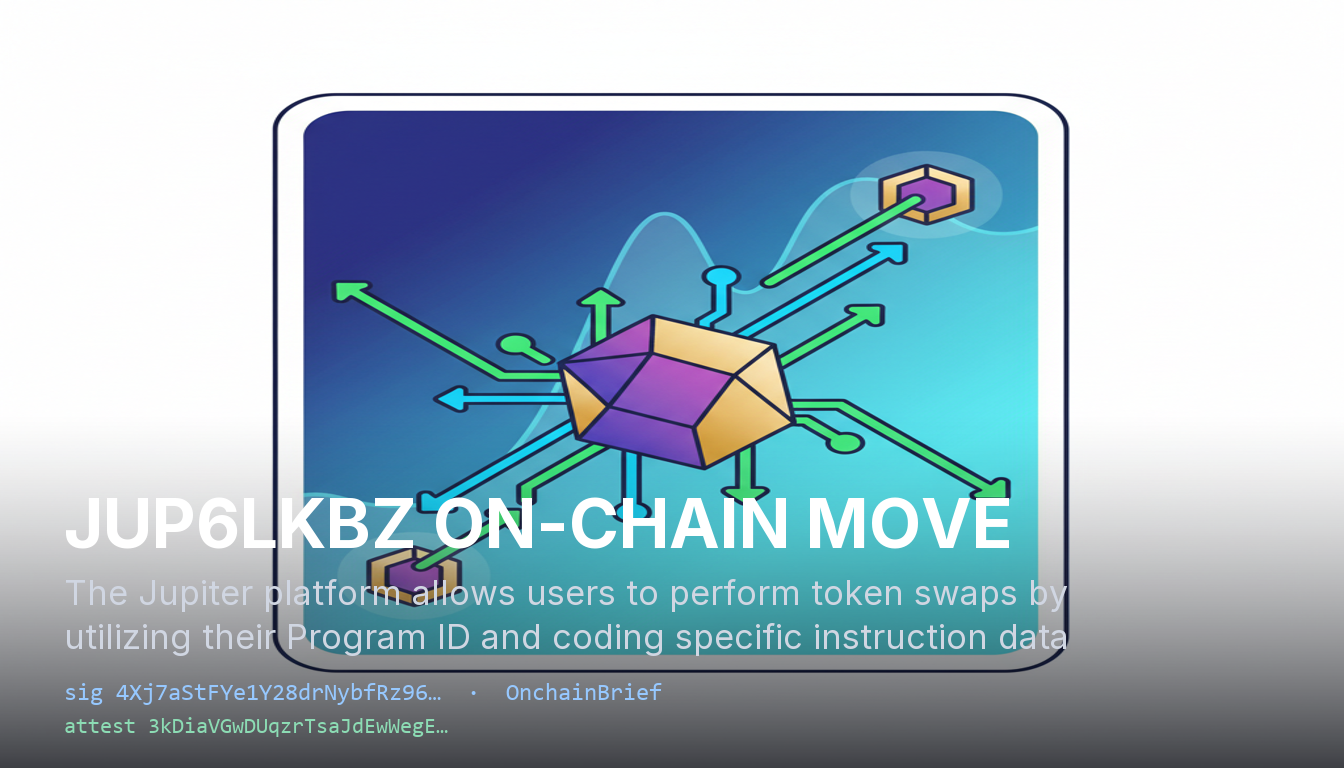
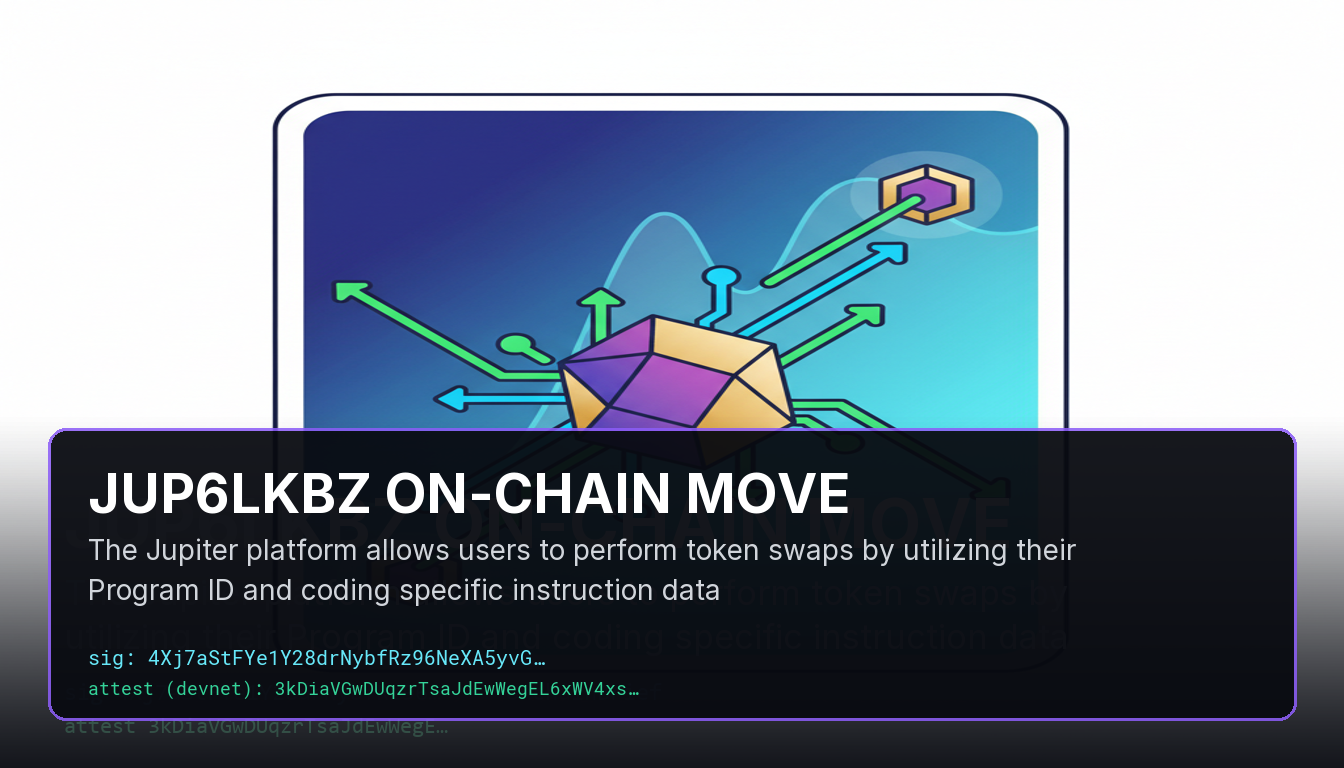
style: implement dark glassmorphic neon-bordered card overlay, recomposite existing PNG cards, update visual prompt

diff --git a/site/index.html b/site/index.html
@@ -1,4 +1,4 @@
-<!doctype html><html lang=en><head><meta charset=utf-8><meta name=viewport content='width=device-width,initial-scale=1'><title>OnchainBrief — Verified Solana Intelligence</title><style>@import url('https://fonts.googleapis.com/css2?family=Inter:wght@300;400;500;600;700&display=swap');:root{--bg:#030712;--card-bg:rgba(17,24,39,0.7);--border:rgba(255,255,255,0.08);--border-hover:rgba(255,255,255,0.16);--text:#f3f4f6;--text-muted:#9ca3af;--primary:#8b5cf6;--primary-glow:rgba(139,92,246,0.15);--success:#10b981;--success-glow:rgba(16,185,129,0.15);--accent:#06b6d4}body{background-color:var(--bg);background-image:radial-gradient(at 0% 0%,rgba(139,92,246,0.08) 0px,transparent 50%),radial-gradient(at 100% 100%,rgba(6,182,212,0.05) 0px,transparent 50%);color:var(--text);font-family:'Inter',system-ui,-apple-system,sans-serif;margin:0;padding:0;min-height:100vh;display:flex;flex-direction:column}.container{max-width:1200px;margin:0 auto;padding:60px 24px;flex-grow:1}header{text-align:center;margin-bottom:60px}.logo{display:inline-flex;align-items:center;gap:12px;margin-bottom:16px}.logo-icon{font-size:32px;background:linear-gradient(135deg,var(--primary),var(--accent));-webkit-background-clip:text;-webkit-text-fill-color:transparent;filter:drop-shadow(0 2px 8px var(--primary-glow))}h1{font-size:38px;font-weight:700;margin:0;background:linear-gradient(to right,#ffffff,#d1d5db);-webkit-background-clip:text;-webkit-text-fill-color:transparent;letter-spacing:-0.02em}.subtitle{color:var(--text-muted);font-size:16px;margin-top:12px;max-width:600px;margin-left:auto;margin-right:auto;font-weight:300;line-height:1.6}.grid{display:grid;grid-template-columns:repeat(auto-fill,minmax(360px,1fr));gap:32px}article{background:var(--card-bg);backdrop-filter:blur(12px);-webkit-backdrop-filter:blur(12px);border:1px solid var(--border);border-radius:20px;padding:24px;display:flex;flex-direction:column;transition:all 0.3s cubic-bezier(0.4,0,0.2,1);position:relative;overflow:hidden}article:hover{transform:translateY(-4px);border-color:var(--border-hover);box-shadow:0 12px 30px rgba(0,0,0,0.5),0 0 2px var(--primary)}.img-wrapper{width:100%;border-radius:12px;overflow:hidden;aspect-ratio:1.58;background:#1f2937;margin-bottom:20px;border:1px solid rgba(255,255,255,0.05)}article img{width:100%;height:100%;object-fit:cover;transition:transform 0.5s ease}article:hover img{transform:scale(1.03)}h2{font-size:20px;font-weight:600;margin:0 0 12px 0;color:#ffffff;line-height:1.4}.narrative{color:var(--text-muted);font-size:14px;line-height:1.6;margin:0 0 20px 0;flex-grow:1}.section-title{font-size:11px;text-transform:uppercase;letter-spacing:0.05em;color:var(--text-muted);margin-bottom:8px;font-weight:600}.badges-container{margin-bottom:18px}.sources-list{display:flex;flex-wrap:wrap;gap:8px}.source-badge{display:inline-flex;align-items:center;background:rgba(255,255,255,0.04);border:1px solid rgba(255,255,255,0.06);color:var(--text-muted);padding:4px 10px;border-radius:6px;font-size:11px;text-decoration:none;transition:all 0.2s ease}.source-badge:hover{background:rgba(255,255,255,0.08);color:#ffffff;border-color:rgba(255,255,255,0.12)}.proofs{display:flex;flex-direction:column;gap:8px;border-top:1px solid rgba(255,255,255,0.06);padding-top:16px;margin-top:auto}.proof-badge{display:flex;align-items:center;justify-content:space-between;padding:8px 12px;border-radius:8px;font-size:12px;text-decoration:none;transition:all 0.2s ease;font-family:monospace}.proof-badge.onchain{background:var(--primary-glow);border:1px solid rgba(139,92,246,0.2);color:#c084fc}.proof-badge.onchain:hover{background:rgba(139,92,246,0.25);border-color:rgba(139,92,246,0.4)}.proof-badge.attest{background:var(--success-glow);border:1px solid rgba(16,185,129,0.2);color:#34d399}.proof-badge.attest:hover{background:rgba(16,185,129,0.25);border-color:rgba(16,185,129,0.4)}.badge-label{font-family:'Inter',sans-serif;font-weight:500;font-size:11px}footer{text-align:center;padding:40px 24px;color:var(--text-muted);font-size:13px;border-top:1px solid var(--border);background:rgba(10,15,26,0.5);backdrop-filter:blur(8px);margin-top:80px}footer a{color:var(--primary);text-decoration:none;transition:color 0.2s ease}footer a:hover{color:var(--accent)}@media (max-width:640px){.container{padding:40px 16px}.grid{grid-template-columns:1fr}h1{font-size:30px}}</style></head><body><div class=container><header><div class=logo><span class=logo-icon>⚡</span></div><h1>OnchainBrief</h1><p class=subtitle>Curated Solana network security & program intelligence, verified on-chain and registered via SAP.</p></header><main class=grid><article><div class="img-wrapper"><img src="5U6RG9bkwJBRMRL7.png" alt="JUP6LkbZ on-chain move"></div><h2>JUP6LkbZ on-chain move</h2><p class="narrative">Developers can utilize Jupiter&#x27;s Program ID for implementing swaps directly in their applications on the Solana blockchain, integrating with its comprehensive programming model. A library is available that provides tools for parsing and inspecting Solana transactions, enhancing the development process. This tutorial series also emphasizes building Solana programs using the Anchor framework, which facilitates coding in native Solana instructions.</p><div class="badges-container"><div class="section-title">Sources</div><div class="sources-list"><a class="source-badge" href="https://solana.stackexchange.com/questions/18946/how-to-call-the-shared-accounts-route-instruction-on-jupiter" target="_blank" rel="noopener noreferrer">solana.stackexchange.com</a><a class="source-badge" href="https://blog.syndica.io/an-introduction-to-the-solana-programming-model-accounts-data-and-transactions/" target="_blank" rel="noopener noreferrer">blog.syndica.io</a><a class="source-badge" href="https://github.com/tkhq/solana-parser" target="_blank" rel="noopener noreferrer">github.com</a><a class="source-badge" href="https://rareskills.io/post/solana-program-entry-and-execution" target="_blank" rel="noopener noreferrer">rareskills.io</a><a class="source-badge" href="https://explorer.solana.com/tx/URX3GWaqFHtTrwShDyF5Krn2BdEkJHLv3hR9ATpZdLLHg8zZUmeZdwDJ5MoFb4KYqzZQ9bfEqbMpPPbj66vfhbH" target="_blank" rel="noopener noreferrer">explorer.solana.com</a></div></div><div class="proofs"><a class="proof-badge onchain" href="https://solscan.io/tx/5U6RG9bkwJBRMRL7hjKADCh5Xz65DQrd9BhTH9jM1iBcZtxophaYYJDkuV3Z3ow5H92efZPEpaavDB8JJWradivt" target="_blank" rel="noopener noreferrer"><span class="badge-label">🔗 On-Chain Proof</span><span>5U6RG9bk…JWradivt</span></a><a class="proof-badge attest" href="https://solscan.io/tx/3J95YzMSiR43mN1o7dmfCyUmBPbjfeWxHRJPG7wxPa8uTZJtZZ5WyYdPqipGf9tikkT1w99NAigDzDsQAFFgtnVw?cluster=devnet" target="_blank" rel="noopener noreferrer"><span class="badge-label">✓ SAP Attestation (devnet)</span><span>3J95YzMS…AFFgtnVw</span></a></div></article>
+<!doctype html><html lang=en><head><meta charset=utf-8><meta name=viewport content='width=device-width,initial-scale=1'><title>OnchainBrief — Verified Solana Intelligence</title><style>@import url('https://fonts.googleapis.com/css2?family=Inter:wght@300;400;500;600;700&display=swap');:root{--bg:#030712;--card-bg:rgba(17,24,39,0.7);--border:rgba(255,255,255,0.08);--border-hover:rgba(255,255,255,0.16);--text:#f3f4f6;--text-muted:#9ca3af;--primary:#8b5cf6;--primary-glow:rgba(139,92,246,0.15);--success:#10b981;--success-glow:rgba(16,185,129,0.15);--accent:#06b6d4}body{background-color:var(--bg);background-image:radial-gradient(at 0% 0%,rgba(139,92,246,0.08) 0px,transparent 50%),radial-gradient(at 100% 100%,rgba(6,182,212,0.05) 0px,transparent 50%);color:var(--text);font-family:'Inter',system-ui,-apple-system,sans-serif;margin:0;padding:0;min-height:100vh;display:flex;flex-direction:column}.container{max-width:1200px;margin:0 auto;padding:60px 24px;flex-grow:1}header{text-align:center;margin-bottom:60px}.logo{display:inline-flex;align-items:center;gap:12px;margin-bottom:16px}.logo-icon{font-size:32px;background:linear-gradient(135deg,var(--primary),var(--accent));-webkit-background-clip:text;-webkit-text-fill-color:transparent;filter:drop-shadow(0 2px 8px var(--primary-glow))}h1{font-size:38px;font-weight:700;margin:0;background:linear-gradient(to right,#ffffff,#d1d5db);-webkit-background-clip:text;-webkit-text-fill-color:transparent;letter-spacing:-0.02em}.subtitle{color:var(--text-muted);font-size:16px;margin-top:12px;max-width:600px;margin-left:auto;margin-right:auto;font-weight:300;line-height:1.6}.grid{display:grid;grid-template-columns:repeat(auto-fill,minmax(360px,1fr));gap:32px}article{background:var(--card-bg);backdrop-filter:blur(12px);-webkit-backdrop-filter:blur(12px);border:1px solid var(--border);border-radius:20px;padding:24px;display:flex;flex-direction:column;transition:all 0.3s cubic-bezier(0.4,0,0.2,1);position:relative;overflow:hidden}article:hover{transform:translateY(-4px);border-color:var(--border-hover);box-shadow:0 12px 30px rgba(0,0,0,0.5),0 0 2px var(--primary)}.img-wrapper{width:100%;border-radius:12px;overflow:hidden;aspect-ratio:1.58;background:#1f2937;margin-bottom:20px;border:1px solid rgba(255,255,255,0.05)}article img{width:100%;height:100%;object-fit:cover;transition:transform 0.5s ease}article:hover img{transform:scale(1.03)}h2{font-size:20px;font-weight:600;margin:0 0 12px 0;color:#ffffff;line-height:1.4}.narrative{color:var(--text-muted);font-size:14px;line-height:1.6;margin:0 0 20px 0;flex-grow:1}.section-title{font-size:11px;text-transform:uppercase;letter-spacing:0.05em;color:var(--text-muted);margin-bottom:8px;font-weight:600}.badges-container{margin-bottom:18px}.sources-list{display:flex;flex-wrap:wrap;gap:8px}.source-badge{display:inline-flex;align-items:center;background:rgba(255,255,255,0.04);border:1px solid rgba(255,255,255,0.06);color:var(--text-muted);padding:4px 10px;border-radius:6px;font-size:11px;text-decoration:none;transition:all 0.2s ease}.source-badge:hover{background:rgba(255,255,255,0.08);color:#ffffff;border-color:rgba(255,255,255,0.12)}.proofs{display:flex;flex-direction:column;gap:8px;border-top:1px solid rgba(255,255,255,0.06);padding-top:16px;margin-top:auto}.proof-badge{display:flex;align-items:center;justify-content:space-between;padding:8px 12px;border-radius:8px;font-size:12px;text-decoration:none;transition:all 0.2s ease;font-family:monospace}.proof-badge.onchain{background:var(--primary-glow);border:1px solid rgba(139,92,246,0.2);color:#c084fc}.proof-badge.onchain:hover{background:rgba(139,92,246,0.25);border-color:rgba(139,92,246,0.4)}.proof-badge.attest{background:var(--success-glow);border:1px solid rgba(16,185,129,0.2);color:#34d399}.proof-badge.attest:hover{background:rgba(16,185,129,0.25);border-color:rgba(16,185,129,0.4)}.badge-label{font-family:'Inter',sans-serif;font-weight:500;font-size:11px}footer{text-align:center;padding:40px 24px;color:var(--text-muted);font-size:13px;border-top:1px solid var(--border);background:rgba(10,15,26,0.5);backdrop-filter:blur(8px);margin-top:80px}footer a{color:var(--primary);text-decoration:none;transition:color 0.2s ease}footer a:hover{color:var(--accent)}@media (max-width:640px){.container{padding:40px 16px}.grid{grid-template-columns:1fr}h1{font-size:30px}}</style></head><body><div class=container><header><div class=logo><span class=logo-icon>⚡</span></div><h1>OnchainBrief</h1><p class=subtitle>Curated Solana network security & program intelligence, verified on-chain and registered via SAP.</p></header><main class=grid><article><div class="img-wrapper"><img src="4RWQZAZW99cAKW4N.png" alt="JUP6LkbZ on-chain move"></div><h2>JUP6LkbZ on-chain move</h2><p class="narrative">Jupiter provides a Solana-compatible direct interface for swaps, allowing developers to utilize its Program ID for instructional coding. The Solana programming model is elaborated upon in a recent article, which covers essential structures for building applications and includes insights on transaction parsing with a dedicated library. Additionally, the Compute Budget Program specifies a Compute Unit Price of 10 lamports per compute unit, highlighting the cost structure for transactions within this ecosystem.</p><div class="badges-container"><div class="section-title">Sources</div><div class="sources-list"><a class="source-badge" href="https://solana.stackexchange.com/questions/18946/how-to-call-the-shared-accounts-route-instruction-on-jupiter" target="_blank" rel="noopener noreferrer">solana.stackexchange.com</a><a class="source-badge" href="https://blog.syndica.io/an-introduction-to-the-solana-programming-model-accounts-data-and-transactions/" target="_blank" rel="noopener noreferrer">blog.syndica.io</a><a class="source-badge" href="https://github.com/tkhq/solana-parser" target="_blank" rel="noopener noreferrer">github.com</a><a class="source-badge" href="https://rareskills.io/post/solana-program-entry-and-execution" target="_blank" rel="noopener noreferrer">rareskills.io</a><a class="source-badge" href="https://explorer.solana.com/tx/URX3GWaqFHtTrwShDyF5Krn2BdEkJHLv3hR9ATpZdLLHg8zZUmeZdwDJ5MoFb4KYqzZQ9bfEqbMpPPbj66vfhbH" target="_blank" rel="noopener noreferrer">explorer.solana.com</a></div></div><div class="proofs"><a class="proof-badge onchain" href="https://solscan.io/tx/4RWQZAZW99cAKW4N66712B75Q25sQLCJb47Q9XBGtAhmaLGtaU8d5gHKQEVir819BWnpyJHuWybuPpzLnXJrN4xs" target="_blank" rel="noopener noreferrer"><span class="badge-label">🔗 On-Chain Proof</span><span>4RWQZAZW…nXJrN4xs</span></a><a class="proof-badge attest" href="https://solscan.io/tx/31A5ZmR4k416PA9J1szTvEVDgd6FkxiqBdL5WRZUtFdbWqErE88EEmkyHVLi1o1MmqVTkPLc8Snd1YQd97syU3Z1?cluster=devnet" target="_blank" rel="noopener noreferrer"><span class="badge-label">✓ SAP Attestation (devnet)</span><span>31A5ZmR4…97syU3Z1</span></a></div></article>
 <article><div class="img-wrapper"><img src="4Xj7aStFYe1Y28dr.png" alt="JUP6LkbZ on-chain move"></div><h2>JUP6LkbZ on-chain move</h2><p class="narrative">The Jupiter platform allows users to perform token swaps by utilizing their Program ID and coding specific instruction data. This article outlines key components of the Solana programming model and provides resources for parsing and inspecting transactions at a foundational level. Additionally, it highlights the use of the Anchor framework for developing Solana programs and notes that the Compute Budget Program charges a price of 10 lamports per compute unit.</p><div class="badges-container"><div class="section-title">Sources</div><div class="sources-list"><a class="source-badge" href="https://solana.stackexchange.com/questions/18946/how-to-call-the-shared-accounts-route-instruction-on-jupiter" target="_blank" rel="noopener noreferrer">solana.stackexchange.com</a><a class="source-badge" href="https://blog.syndica.io/an-introduction-to-the-solana-programming-model-accounts-data-and-transactions/" target="_blank" rel="noopener noreferrer">blog.syndica.io</a><a class="source-badge" href="https://github.com/tkhq/solana-parser" target="_blank" rel="noopener noreferrer">github.com</a><a class="source-badge" href="https://rareskills.io/post/solana-program-entry-and-execution" target="_blank" rel="noopener noreferrer">rareskills.io</a><a class="source-badge" href="https://explorer.solana.com/tx/URX3GWaqFHtTrwShDyF5Krn2BdEkJHLv3hR9ATpZdLLHg8zZUmeZdwDJ5MoFb4KYqzZQ9bfEqbMpPPbj66vfhbH" target="_blank" rel="noopener noreferrer">explorer.solana.com</a></div></div><div class="proofs"><a class="proof-badge onchain" href="https://solscan.io/tx/4Xj7aStFYe1Y28drNybfRz96NeXA5yvGC9VDxyLDUMoYuSMT91gWbTX7Nk718eht5XY15LYcXL7egMbXaJyzSsX3" target="_blank" rel="noopener noreferrer"><span class="badge-label">🔗 On-Chain Proof</span><span>4Xj7aStF…aJyzSsX3</span></a><a class="proof-badge attest" href="https://solscan.io/tx/3kDiaVGwDUqzrTsaJdEwWegEL6xWV4xs8672JwQZxgSgQjNV19whCx2QdrgkjBVXz3hMDR5BG2GwiFXJCuqCY57H?cluster=devnet" target="_blank" rel="noopener noreferrer"><span class="badge-label">✓ SAP Attestation (devnet)</span><span>3kDiaVGw…CuqCY57H</span></a></div></article>
-<article><div class="img-wrapper"><img src="4RWQZAZW99cAKW4N.png" alt="JUP6LkbZ on-chain move"></div><h2>JUP6LkbZ on-chain move</h2><p class="narrative">Jupiter provides a Solana-compatible direct interface for swaps, allowing developers to utilize its Program ID for instructional coding. The Solana programming model is elaborated upon in a recent article, which covers essential structures for building applications and includes insights on transaction parsing with a dedicated library. Additionally, the Compute Budget Program specifies a Compute Unit Price of 10 lamports per compute unit, highlighting the cost structure for transactions within this ecosystem.</p><div class="badges-container"><div class="section-title">Sources</div><div class="sources-list"><a class="source-badge" href="https://solana.stackexchange.com/questions/18946/how-to-call-the-shared-accounts-route-instruction-on-jupiter" target="_blank" rel="noopener noreferrer">solana.stackexchange.com</a><a class="source-badge" href="https://blog.syndica.io/an-introduction-to-the-solana-programming-model-accounts-data-and-transactions/" target="_blank" rel="noopener noreferrer">blog.syndica.io</a><a class="source-badge" href="https://github.com/tkhq/solana-parser" target="_blank" rel="noopener noreferrer">github.com</a><a class="source-badge" href="https://rareskills.io/post/solana-program-entry-and-execution" target="_blank" rel="noopener noreferrer">rareskills.io</a><a class="source-badge" href="https://explorer.solana.com/tx/URX3GWaqFHtTrwShDyF5Krn2BdEkJHLv3hR9ATpZdLLHg8zZUmeZdwDJ5MoFb4KYqzZQ9bfEqbMpPPbj66vfhbH" target="_blank" rel="noopener noreferrer">explorer.solana.com</a></div></div><div class="proofs"><a class="proof-badge onchain" href="https://solscan.io/tx/4RWQZAZW99cAKW4N66712B75Q25sQLCJb47Q9XBGtAhmaLGtaU8d5gHKQEVir819BWnpyJHuWybuPpzLnXJrN4xs" target="_blank" rel="noopener noreferrer"><span class="badge-label">🔗 On-Chain Proof</span><span>4RWQZAZW…nXJrN4xs</span></a><a class="proof-badge attest" href="https://solscan.io/tx/31A5ZmR4k416PA9J1szTvEVDgd6FkxiqBdL5WRZUtFdbWqErE88EEmkyHVLi1o1MmqVTkPLc8Snd1YQd97syU3Z1?cluster=devnet" target="_blank" rel="noopener noreferrer"><span class="badge-label">✓ SAP Attestation (devnet)</span><span>31A5ZmR4…97syU3Z1</span></a></div></article>
-<article><div class="img-wrapper"><img src="3KWgi7jPuD9FBUMf.png" alt="JUP6LkbZ on-chain move"></div><h2>JUP6LkbZ on-chain move</h2><p class="narrative">The article outlines the Solana programming model, emphasizing the foundational structures for application development on the platform. It provides a beginner&#x27;s guide to building, deploying, and testing Solana programs using the Anchor framework and Solana Playground, along with tools for migrating builtin programs to Core BPF. Additionally, it discusses the upgradability of Solana programs and includes key takeaways from a course on building and deploying a fullstack SPL Token Minter dApp.</p><div class="badges-container"><div class="section-title">Sources</div><div class="sources-list"><a class="source-badge" href="https://blog.syndica.io/an-introduction-to-the-solana-programming-model-accounts-data-and-transactions/" target="_blank" rel="noopener noreferrer">blog.syndica.io</a><a class="source-badge" href="https://solana.com/docs/intro/quick-start/deploying-programs" target="_blank" rel="noopener noreferrer">solana.com</a><a class="source-badge" href="https://github.com/solana-program" target="_blank" rel="noopener noreferrer">github.com</a><a class="source-badge" href="https://www.youtube.com/watch?v=T2jPIIsObXw" target="_blank" rel="noopener noreferrer">youtube.com</a><a class="source-badge" href="https://www.sec3.dev/blog/solana-internals-part-2-how-is-a-solana-program-deployed-and-upgraded" target="_blank" rel="noopener noreferrer">sec3.dev</a></div></div><div class="proofs"><a class="proof-badge onchain" href="https://solscan.io/tx/3KWgi7jPuD9FBUMfcfNWiMWn4pbL9LPuMWab9Ko48umCzHChWs9xba2yebwywRYxHwKcWFNPdJGAkHcMiDouZKE8" target="_blank" rel="noopener noreferrer"><span class="badge-label">🔗 On-Chain Proof</span><span>3KWgi7jP…iDouZKE8</span></a><a class="proof-badge attest" href="https://solscan.io/tx/4AJdV5xfEy7E5SixPG9ZFqoULDz1UN9Vbfrup2bJygFZegrvQaJpdc169dUPU46ga3Nq3vEfEiM4Zm8p6zmwv8mj?cluster=devnet" target="_blank" rel="noopener noreferrer"><span class="badge-label">✓ SAP Attestation (devnet)</span><span>4AJdV5xf…6zmwv8mj</span></a></div></article></main></div><footer><p>Powered by ACE Services & Solana. Attested via Agent PDA. <a href='https://github.com/cryptoyasenka/oobe-ace-bounty' target=_blank rel='noopener noreferrer'>View Source</a></p></footer></body></html>
+<article><div class="img-wrapper"><img src="3KWgi7jPuD9FBUMf.png" alt="JUP6LkbZ on-chain move"></div><h2>JUP6LkbZ on-chain move</h2><p class="narrative">The article outlines the Solana programming model, emphasizing the foundational structures for application development on the platform. It provides a beginner&#x27;s guide to building, deploying, and testing Solana programs using the Anchor framework and Solana Playground, along with tools for migrating builtin programs to Core BPF. Additionally, it discusses the upgradability of Solana programs and includes key takeaways from a course on building and deploying a fullstack SPL Token Minter dApp.</p><div class="badges-container"><div class="section-title">Sources</div><div class="sources-list"><a class="source-badge" href="https://blog.syndica.io/an-introduction-to-the-solana-programming-model-accounts-data-and-transactions/" target="_blank" rel="noopener noreferrer">blog.syndica.io</a><a class="source-badge" href="https://solana.com/docs/intro/quick-start/deploying-programs" target="_blank" rel="noopener noreferrer">solana.com</a><a class="source-badge" href="https://github.com/solana-program" target="_blank" rel="noopener noreferrer">github.com</a><a class="source-badge" href="https://www.youtube.com/watch?v=T2jPIIsObXw" target="_blank" rel="noopener noreferrer">youtube.com</a><a class="source-badge" href="https://www.sec3.dev/blog/solana-internals-part-2-how-is-a-solana-program-deployed-and-upgraded" target="_blank" rel="noopener noreferrer">sec3.dev</a></div></div><div class="proofs"><a class="proof-badge onchain" href="https://solscan.io/tx/3KWgi7jPuD9FBUMfcfNWiMWn4pbL9LPuMWab9Ko48umCzHChWs9xba2yebwywRYxHwKcWFNPdJGAkHcMiDouZKE8" target="_blank" rel="noopener noreferrer"><span class="badge-label">🔗 On-Chain Proof</span><span>3KWgi7jP…iDouZKE8</span></a><a class="proof-badge attest" href="https://solscan.io/tx/4AJdV5xfEy7E5SixPG9ZFqoULDz1UN9Vbfrup2bJygFZegrvQaJpdc169dUPU46ga3Nq3vEfEiM4Zm8p6zmwv8mj?cluster=devnet" target="_blank" rel="noopener noreferrer"><span class="badge-label">✓ SAP Attestation (devnet)</span><span>4AJdV5xf…6zmwv8mj</span></a></div></article>
+<article><div class="img-wrapper"><img src="5U6RG9bkwJBRMRL7.png" alt="JUP6LkbZ on-chain move"></div><h2>JUP6LkbZ on-chain move</h2><p class="narrative">Developers can utilize Jupiter&#x27;s Program ID for implementing swaps directly in their applications on the Solana blockchain, integrating with its comprehensive programming model. A library is available that provides tools for parsing and inspecting Solana transactions, enhancing the development process. This tutorial series also emphasizes building Solana programs using the Anchor framework, which facilitates coding in native Solana instructions.</p><div class="badges-container"><div class="section-title">Sources</div><div class="sources-list"><a class="source-badge" href="https://solana.stackexchange.com/questions/18946/how-to-call-the-shared-accounts-route-instruction-on-jupiter" target="_blank" rel="noopener noreferrer">solana.stackexchange.com</a><a class="source-badge" href="https://blog.syndica.io/an-introduction-to-the-solana-programming-model-accounts-data-and-transactions/" target="_blank" rel="noopener noreferrer">blog.syndica.io</a><a class="source-badge" href="https://github.com/tkhq/solana-parser" target="_blank" rel="noopener noreferrer">github.com</a><a class="source-badge" href="https://rareskills.io/post/solana-program-entry-and-execution" target="_blank" rel="noopener noreferrer">rareskills.io</a><a class="source-badge" href="https://explorer.solana.com/tx/URX3GWaqFHtTrwShDyF5Krn2BdEkJHLv3hR9ATpZdLLHg8zZUmeZdwDJ5MoFb4KYqzZQ9bfEqbMpPPbj66vfhbH" target="_blank" rel="noopener noreferrer">explorer.solana.com</a></div></div><div class="proofs"><a class="proof-badge onchain" href="https://solscan.io/tx/5U6RG9bkwJBRMRL7hjKADCh5Xz65DQrd9BhTH9jM1iBcZtxophaYYJDkuV3Z3ow5H92efZPEpaavDB8JJWradivt" target="_blank" rel="noopener noreferrer"><span class="badge-label">🔗 On-Chain Proof</span><span>5U6RG9bk…JWradivt</span></a><a class="proof-badge attest" href="https://solscan.io/tx/3J95YzMSiR43mN1o7dmfCyUmBPbjfeWxHRJPG7wxPa8uTZJtZZ5WyYdPqipGf9tikkT1w99NAigDzDsQAFFgtnVw?cluster=devnet" target="_blank" rel="noopener noreferrer"><span class="badge-label">✓ SAP Attestation (devnet)</span><span>3J95YzMS…AFFgtnVw</span></a></div></article></main></div><footer><p>Powered by ACE Services & Solana. Attested via Agent PDA. <a href='https://github.com/cryptoyasenka/oobe-ace-bounty' target=_blank rel='noopener noreferrer'>View Source</a></p></footer></body></html>

diff --git a/src/onchainbrief/compose.py b/src/onchainbrief/compose.py
@@ -84,40 +84,64 @@ def compose_card(
                 fill=(8, 10, 16, a))
     card = Image.alpha_composite(base.convert("RGBA"), scrim)
 
+    # Rounded dark glass container at the bottom with a neon border
+    box_x0 = 48
+    box_y0 = CARD_H - 340
+    box_x1 = CARD_W - 48
+    box_y1 = CARD_H - 48
+    
+    overlay = Image.new("RGBA", (CARD_W, CARD_H), (0, 0, 0, 0))
+    od = ImageDraw.Draw(overlay)
+    
+    # Draw dark container (94% opaque) with a sleek neon border
+    od.rounded_rectangle(
+        [box_x0, box_y0, box_x1, box_y1],
+        radius=18,
+        fill=(8, 10, 16, 240),
+        outline=(139, 92, 246, 220), # Neon purple
+        width=3
+    )
+    
+    card = Image.alpha_composite(card, overlay)
     d = ImageDraw.Draw(card)
 
-    # 1. Headline: dynamically scale down font size if it is too long to prevent overflow
+    # 1. Headline
     headline_text = _strip_period(headline).upper()
-    font_size = 68
+    font_size = 54
     font = _font("bold", font_size)
     try:
-        while d.textlength(headline_text, font=font) > (CARD_W - 128) and font_size > 44:
+        while d.textlength(headline_text, font=font) > (box_x1 - box_x0 - 80) and font_size > 36:
             font_size -= 2
             font = _font("bold", font_size)
     except (AttributeError, TypeError):
-        # Fallback if textlength is not supported in this PIL version
-        if len(headline_text) > 18:
-            font_size = max(44, int(68 * 18 / len(headline_text)))
+        if len(headline_text) > 22:
+            font_size = max(36, int(54 * 22 / len(headline_text)))
             font = _font("bold", font_size)
 
-    d.text((64, CARD_H - 286), headline_text, font=font, fill=(255, 255, 255))
+    text_x = box_x0 + 40
+    d.text((text_x, box_y0 + 32), headline_text, font=font, fill=(255, 255, 255))
 
-    # 2. Subline: wrap and cleanly truncate with ellipsis if it exceeds 2 lines
-    subline_lines = textwrap.wrap(_strip_period(subline), width=64)
+    # 2. Subline
+    subline_lines = textwrap.wrap(_strip_period(subline), width=75)
     if len(subline_lines) > 2:
         subline_lines = subline_lines[:2]
         if not subline_lines[1].endswith("…"):
             subline_lines[1] = subline_lines[1].rstrip() + "…"
 
     for n, line in enumerate(subline_lines):
-        d.text((64, CARD_H - 196 + n * 44), line,
-               font=_font("regular", 34), fill=(208, 214, 226))
-    d.text((64, CARD_H - 86), f"sig {signature[:24]}…  ·  OnchainBrief",
-           font=_font("mono", 24), fill=(150, 200, 255))
+        d.text((text_x, box_y0 + 104 + n * 40), line,
+               font=_font("regular", 28), fill=(209, 213, 219))
+
+    # 3. Signatures / Metadata
+    sig_y = box_y1 - 76
+    d.text((text_x, sig_y), f"sig: {signature[:32]}…",
+           font=_font("mono", 20), fill=(103, 232, 249))
+
     if attestation is not None:
-        attest_sig, _cluster = attestation
-        d.text((64, CARD_H - 52), f"attest {attest_sig[:24]}…",
-               font=_font("mono", 22), fill=(140, 220, 180))
+        attest_sig, cluster = attestation
+        attest_y = box_y1 - 44
+        d.text((text_x, attest_y), f"attest ({cluster}): {attest_sig[:32]}…",
+               font=_font("mono", 18), fill=(52, 211, 153))
 
     out_path = Path(out_path)
     out_path.parent.mkdir(parents=True, exist_ok=True)

diff --git a/scripts/recomposite_cards.py b/scripts/recomposite_cards.py
@@ -1,0 +1,45 @@
+import sys
+import pathlib
+
+ROOT = pathlib.Path(__file__).resolve().parent.parent
+sys.path.insert(0, str(ROOT / "src"))
+
+from onchainbrief.feed import _parse_brief
+from onchainbrief.compose import compose_card
+
+def _first_sentence(text: str) -> str:
+    head = text.split(". ", 1)[0].strip()
+    return head[:-1] if head.endswith(".") else head
+
+def main():
+    briefs_dir = ROOT / "briefs"
+    for md_path in briefs_dir.glob("*.md"):
+        item = _parse_brief(md_path)
+        if not item:
+            print(f"Failed to parse {md_path}")
+            continue
+        
+        png_path = briefs_dir / f"{md_path.stem}.png"
+        if not png_path.exists():
+            print(f"No PNG for {md_path}")
+            continue
+            
+        print(f"Recompositing {png_path.name}...")
+        subline = _first_sentence(item.narrative)
+        
+        attestation = None
+        if item.attest_sig:
+            attestation = (item.attest_sig, item.attest_cluster)
+            
+        compose_card(
+            base_image=png_path,
+            headline=item.headline,
+            subline=subline,
+            signature=item.signature,
+            out_path=png_path,
+            attestation=attestation
+        )
+    print("Done recompositing cards!")
+
+if __name__ == "__main__":
+    main()

diff --git a/src/onchainbrief/pipeline.py b/src/onchainbrief/pipeline.py
@@ -84,8 +84,8 @@ def run_brief(
 
     headline = _headline_for(ev)
     image_bytes = client.image(
-        f"minimal flat-design trading card visual for: {headline}; "
-        "clean, editorial, no text"
+        f"cyberpunk high-tech network schematic for: {headline}; "
+        "glowing data nodes, futuristic digital interface, dark background, premium cyberpunk 3D render, no text"
     )
 
     stem = ev.signature[:16]
